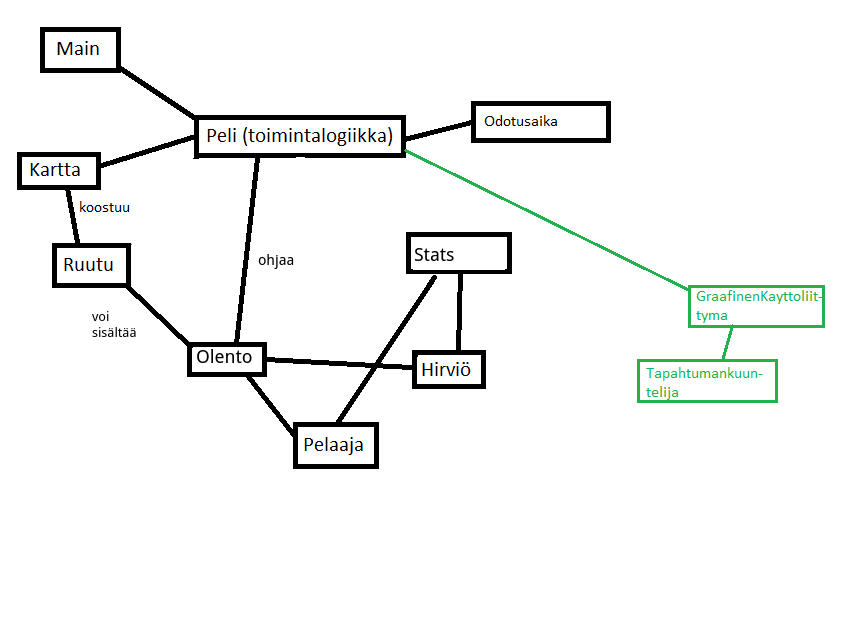
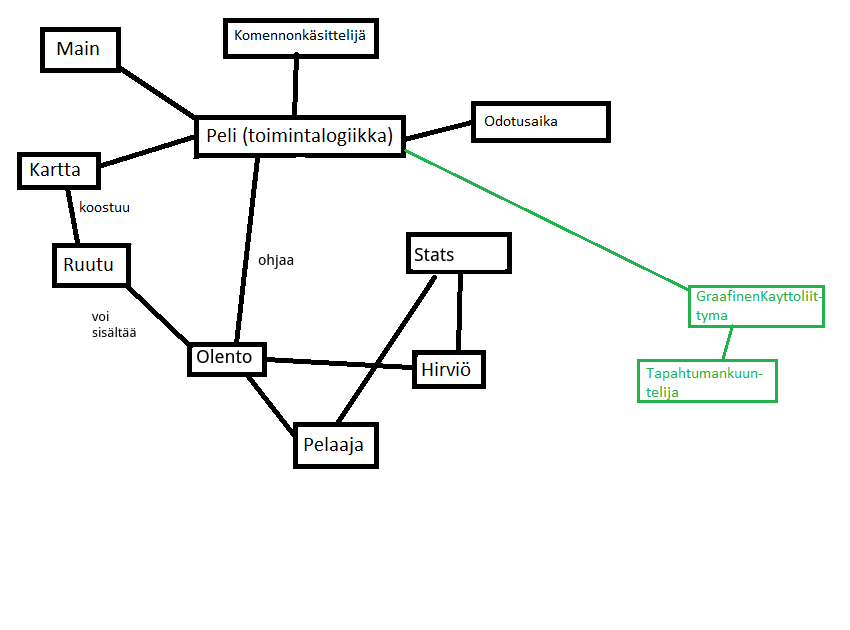
dokumentointia paivitetty

Changed region(s): [[0.2447, 0.0302, 0.4588, 0.181]]

diff --git a/Ryomija/src/ryomija/Peli.java b/Ryomija/src/ryomija/Peli.java
@@ -2,7 +2,6 @@ package ryomija;
 
 import karttaelementit.*;
 import kayttoliittyma.GraafinenKayttoliittyma;
-import kayttoliittyma.Komennonkasittelija;
 import java.util.Random;
 import java.util.List;
 import java.util.ArrayList;
@@ -282,7 +281,8 @@ public class Peli {
      * @param Kohde lyötävä osapuoli
      */
     public void osuma(Olento hyokkaaja, Olento kohde) {
-        kohde.getKyvyt().muutaHP(noppa.nextInt(hyokkaaja.getKyvyt().getVoima()));
+        Random vahinko = new Random();
+        kohde.getKyvyt().muutaHP((vahinko.nextInt(hyokkaaja.getKyvyt().getVoima()) + 1)*-1);
         if (kohde.getKyvyt().getHP() > 0) {
             eiTappavaOsuma(kohde);
         }

diff --git a/Ryomija/src/ryomija/Komennonkasittelija.java b/Ryomija/src/ryomija/Komennonkasittelija.java
@@ -1,4 +1,4 @@
-package kayttoliittyma;
+package ryomija;
 
 import java.util.Scanner;
 import ryomija.Peli;
